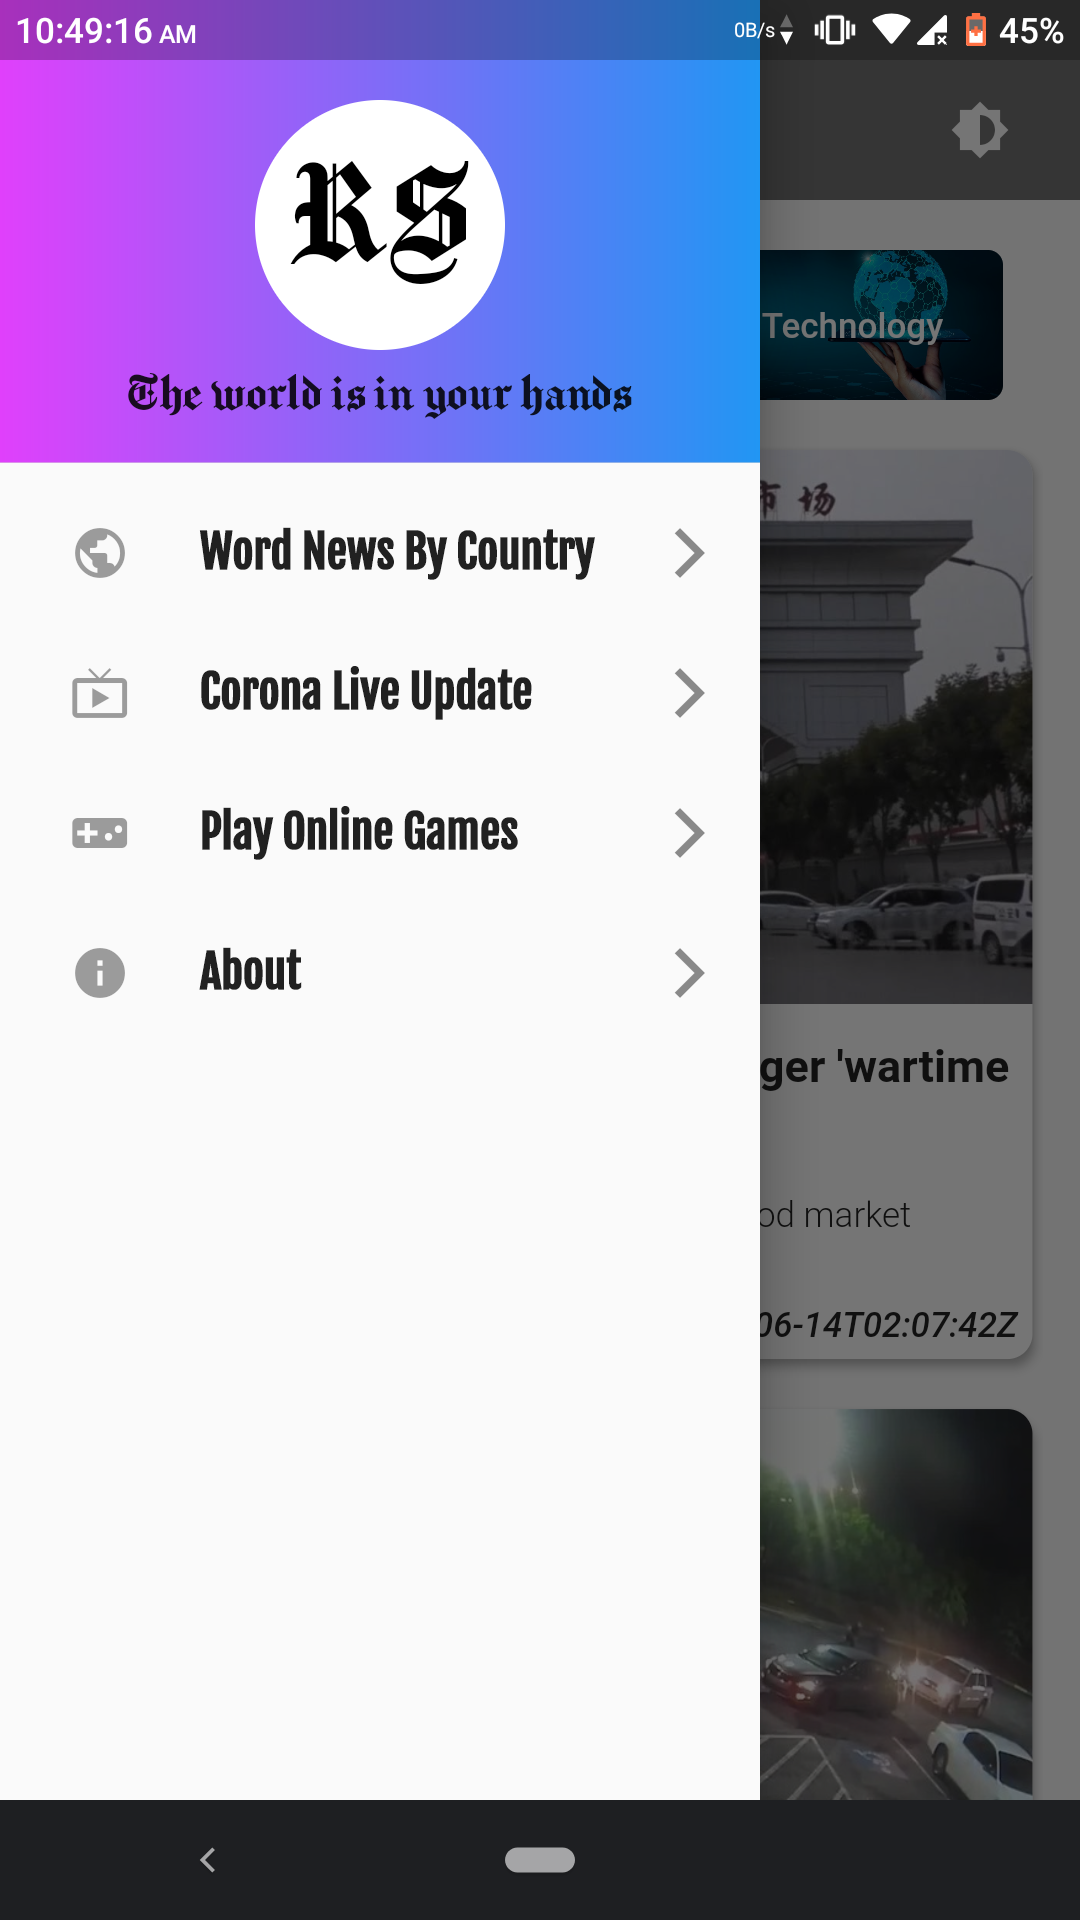
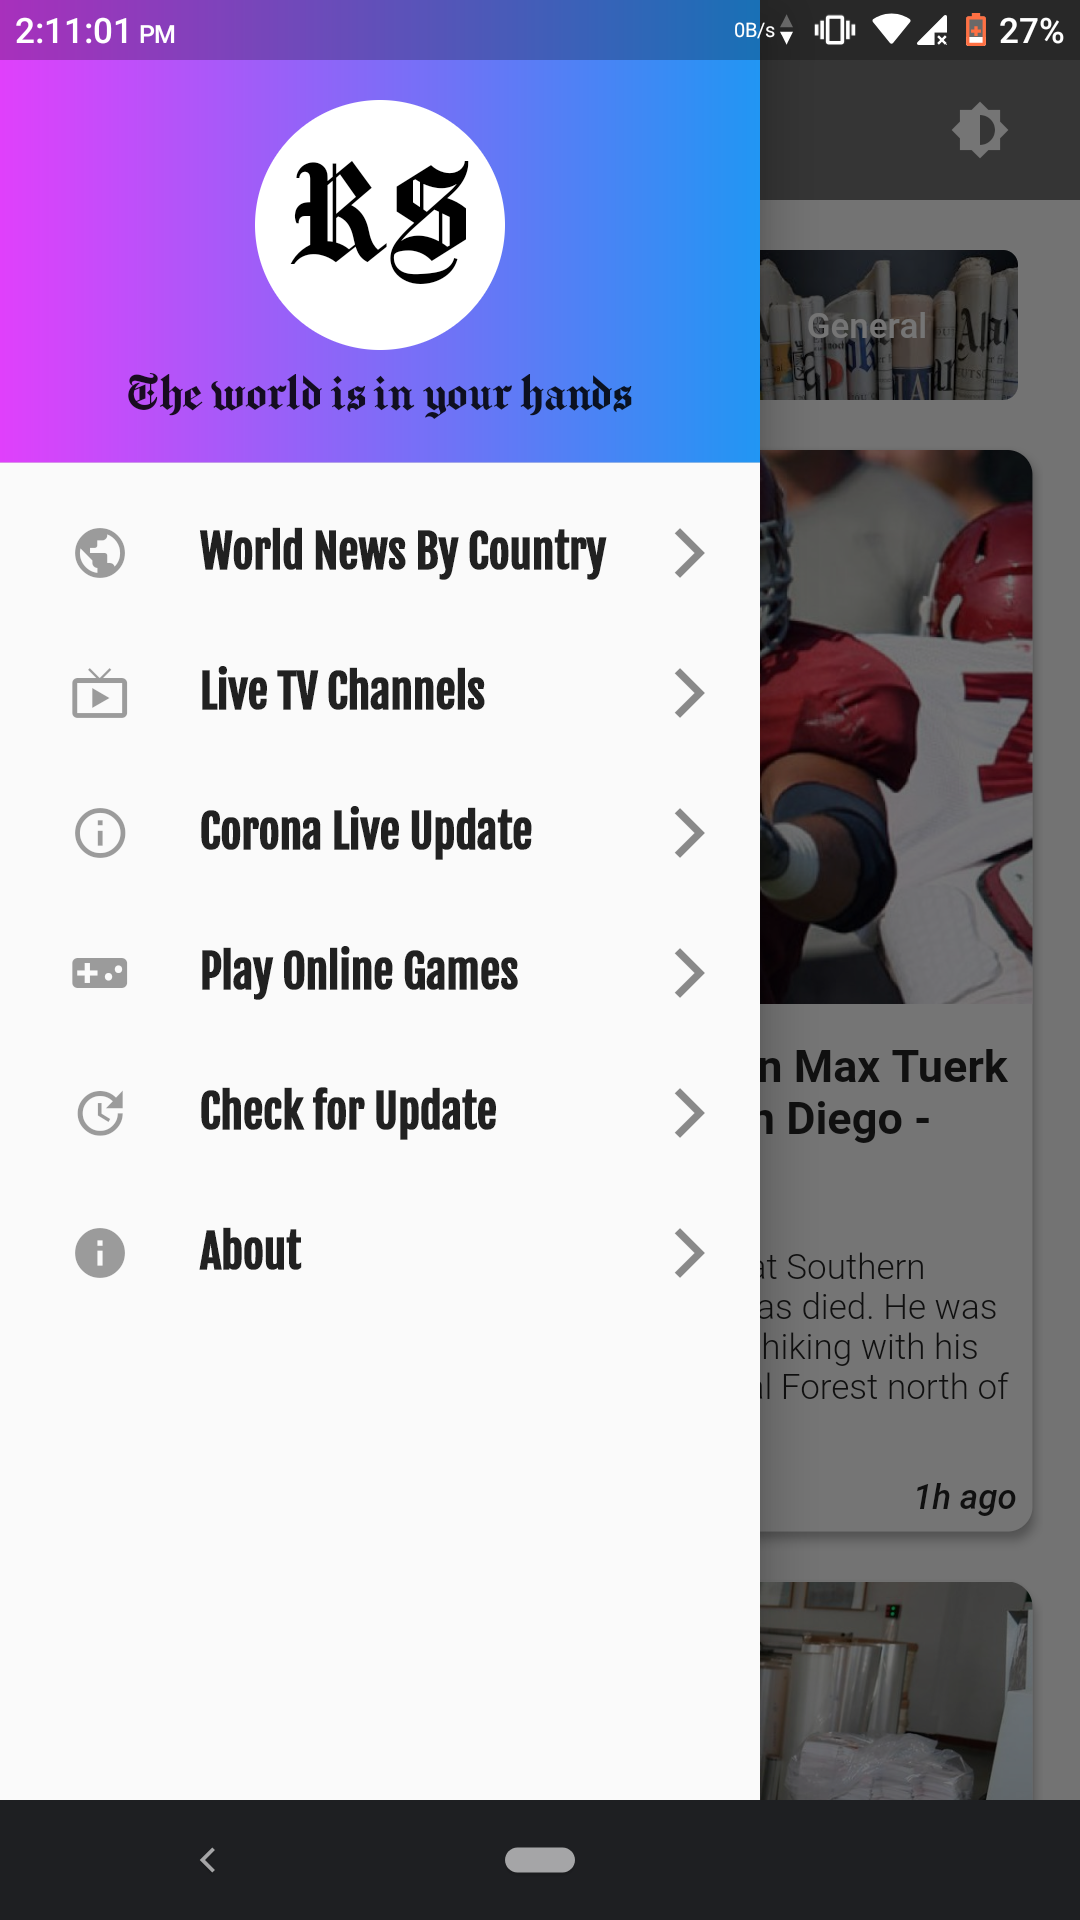
Updated README.md

diff --git a/README.md b/README.md
@@ -2,11 +2,20 @@
   <img src="screenshots/icon.png?raw=true" alt="Party Flutter" />
 </p>
 
-**Request** [source code](https://drive.google.com/drive/folders/1dAtffRx2gFgIFrleiyM3HGl1ZmJHxnS_?usp=sharing)
+Installation
+
+```
+flutter pub get
+```
+Usage 
+
+```
+flutter run
+```
 
 ### About
 
-A news app built using Flutter and Dart for both android and ios devices. This app can fetch top headlines from 10 different countries with detailed news from newsapi. There are 7 categories of news for each country Dark mode is also added for better UX. Other features are beautiful UI, device responsiveness, smooth webview and amazing online games.
+A news app built using Flutter and Dart for both android and ios devices. This app can fetch top headlines from 10 different countries with detailed news from newsapi. There are 7 categories of news for each country Dark mode is also added for better UX. Other features are beautiful UI, device responsiveness, smooth webview, live tv channels and amazing online games.
 
 # Features
 
@@ -37,3 +46,4 @@ A news app built using Flutter and Dart for both android and ios devices. This a
 <table><tr><td><img src='/screenshots/3.png' width="350" height="600"></td><td><img src='/screenshots/4.png' width="350" height="600"></td></tr></table>
 <table><tr><td><img src='/screenshots/5.png' width="350" height="600"></td><td><img src='/screenshots/6.png' width="350" height="600"></td></tr></table>
 <table><tr><td><img src='/screenshots/7.png' width="350" height="600"></td><td><img src='/screenshots/8.png' width="350" height="600"></td></tr></table>
+<table><tr><td><img src='/screenshots/9.png' width="350" height="600"></td><td><img src='/screenshots/10.png' width="350" height="600"></td></tr></table>
